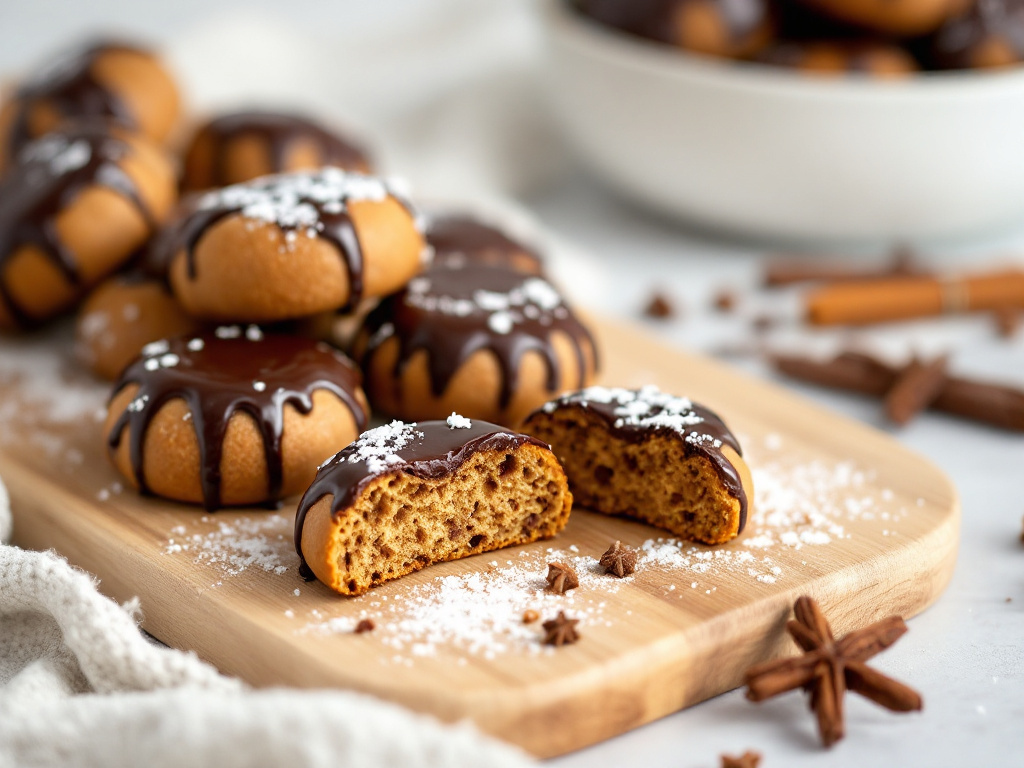
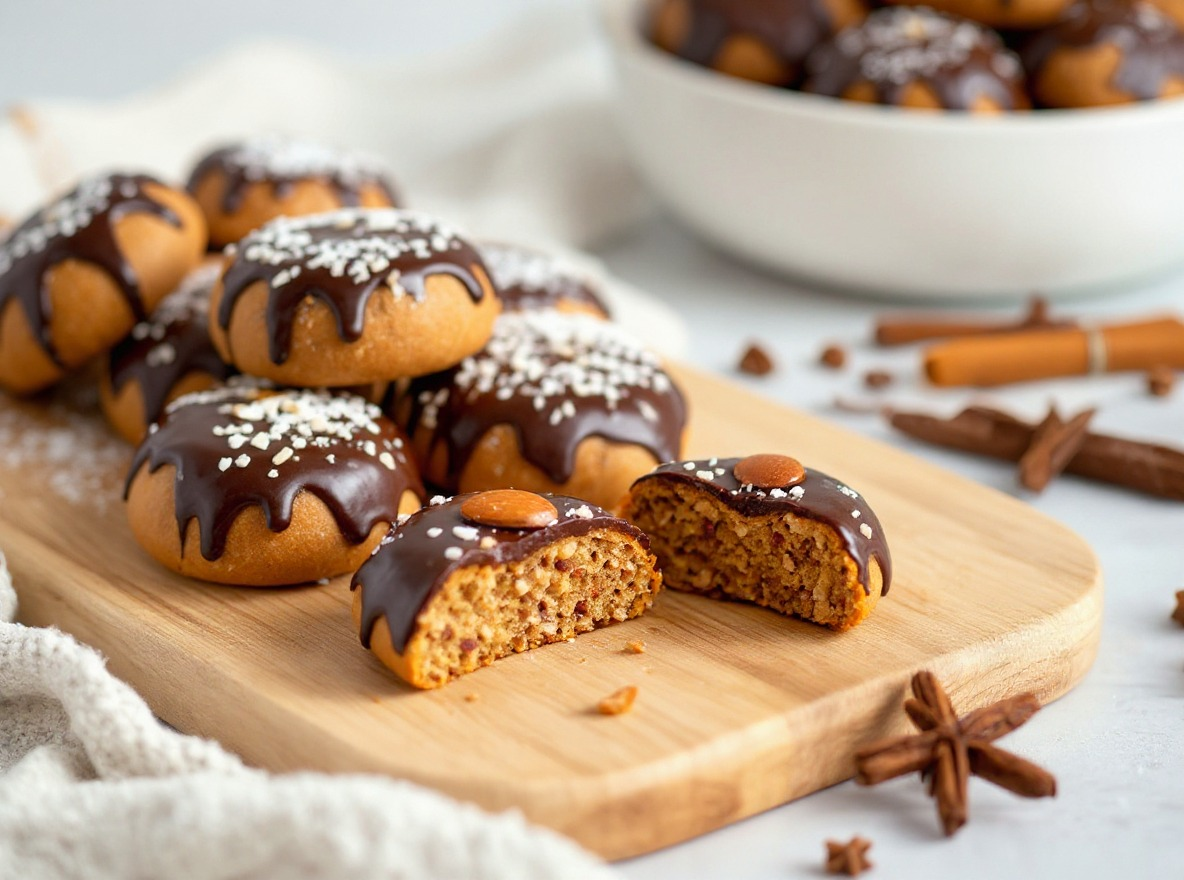
Lebkuchen: Portionsgröße 15 Lebkuchen je Portion, neues Rezeptbild (#7)

diff --git a/_recipes/lebkuchen.md b/_recipes/lebkuchen.md
@@ -5,7 +5,7 @@ title:  "Lebkuchen"
 image: lebkuchen.jpg
 date: 2025-11-18
 servings: 44
-serving_size: 22
+serving_size: 15
 serving_unit: "Lebkuchen"
 
 tags:
